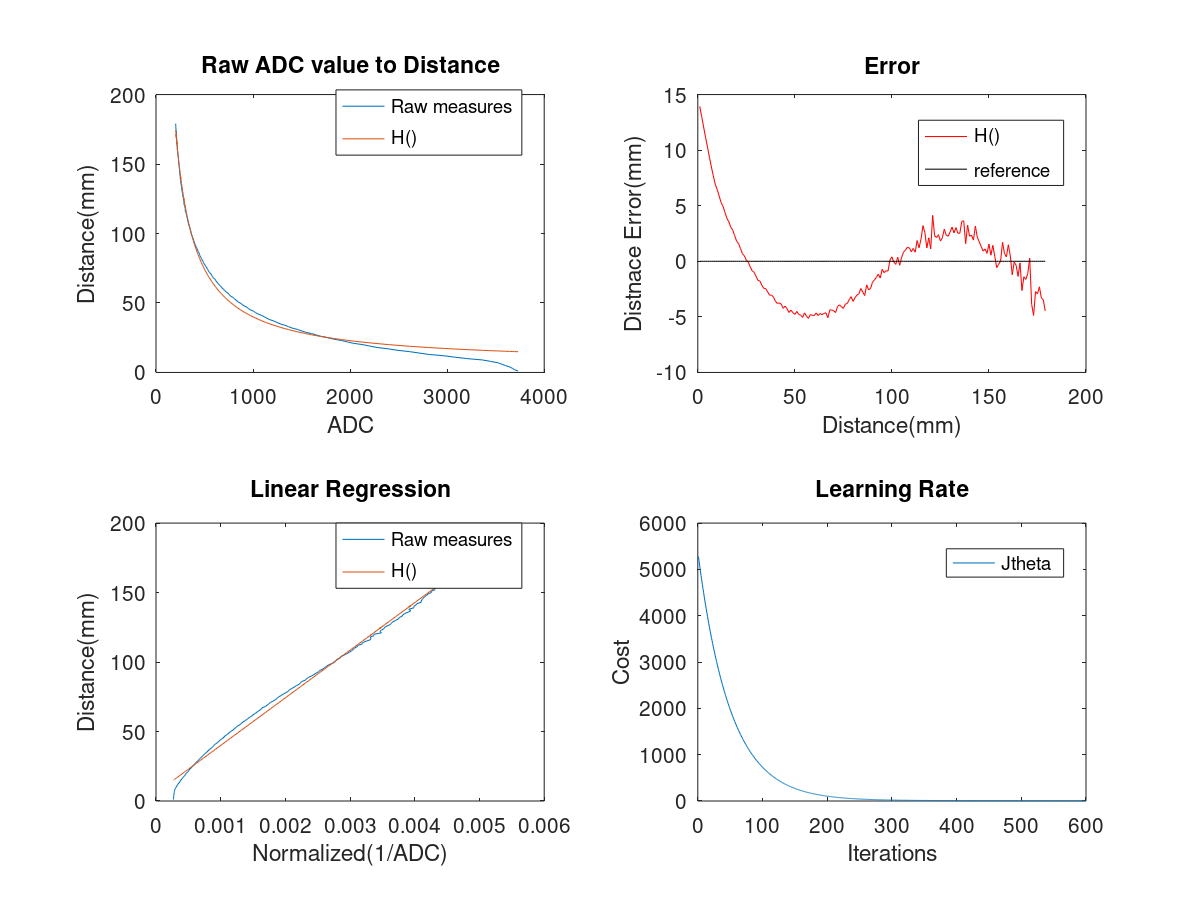
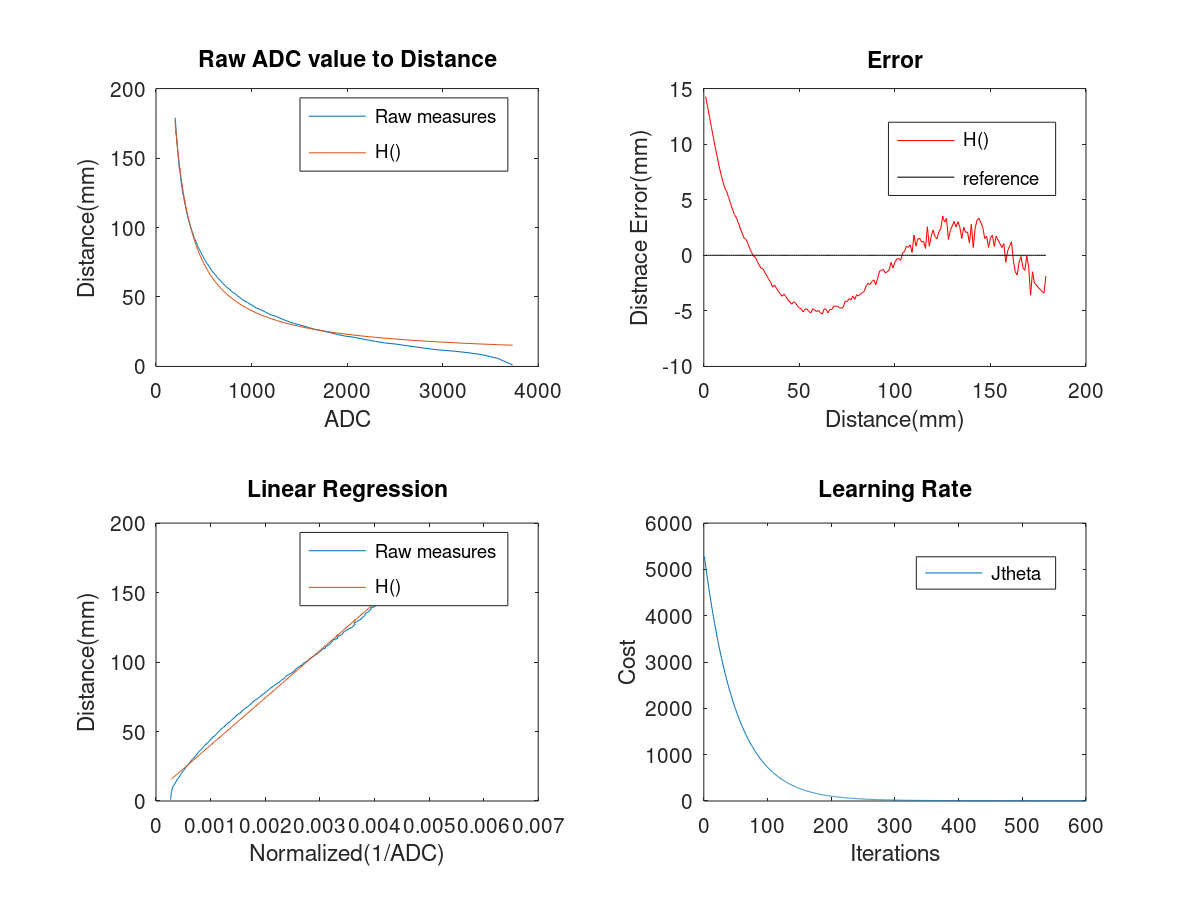
[BancMicromouse] Calibration Bernard

diff --git a/banc_micromouse/MLcalibrate.m b/banc_micromouse/MLcalibrate.m
@@ -1,4 +1,5 @@
 % machine learning
+%% data file order "DL"(2) ,"FL"(3) ,"FR"(4), "DR"(5)
 
 %% initialization
 clear ; close all; clc
@@ -11,7 +12,7 @@ m = size(data,1)-1;
 
 %% build data set X (first 1 col) and y
 y = data(2:m+1,1);
-rawX = data(2:m+1,5);
+rawX = data(2:m+1,5); %% SELECT DATA SET : "DL"(2) ,"FL"(3) ,"FR"(4), "DR"(5)
 
 % one feature with polynomial regression
 

diff --git a/Src/main.c b/Src/main.c
@@ -208,7 +208,7 @@ int main(void)
 	  {
 		  // IR LED/PHOTO calibration setup ONLY
           // comment all theses line of code when running micromouse
-		  if(0)
+		  if(1)
 		  {
 			  static uint32_t time = 0;
 			  if( HAL_GetTick() >= time + 100) // every 0.1 sec
